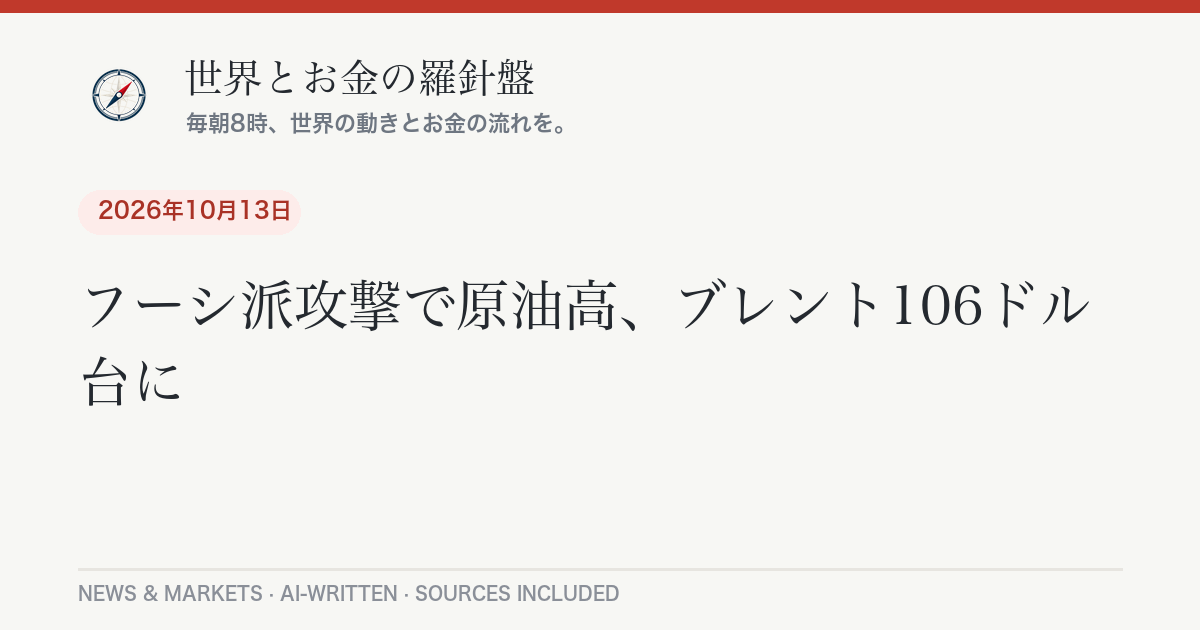
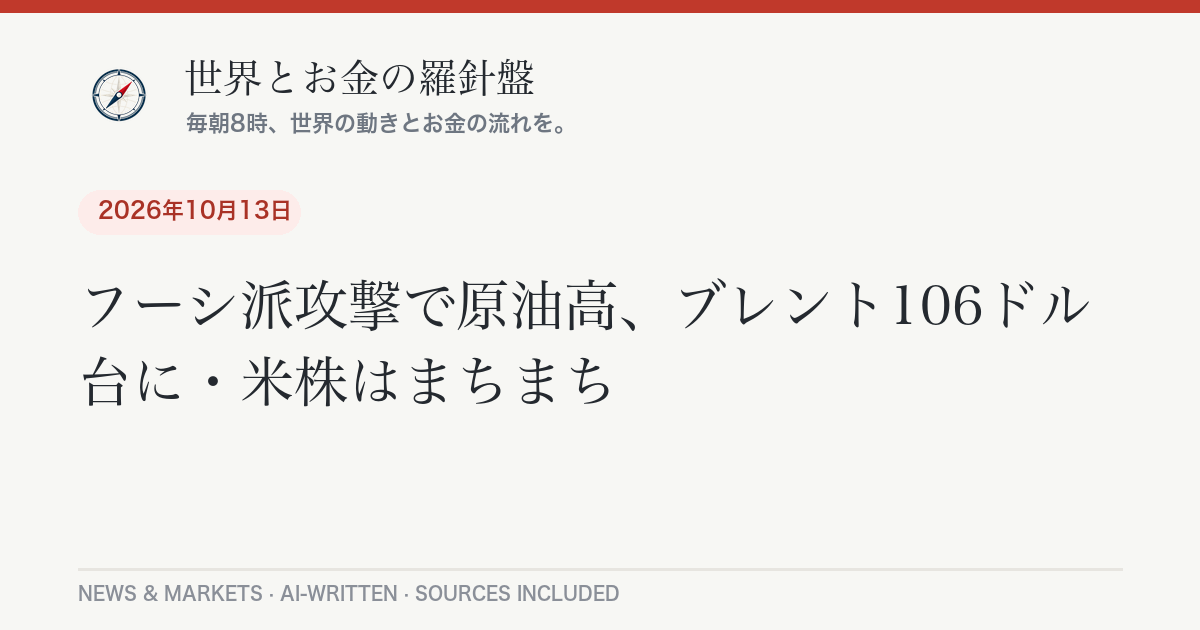
Daily briefing 2026-10-15

Changed region(s): [[0.185, 0.573, 0.5242, 0.6635]]

diff --git a/_posts/2026-10-15-daily-briefing.md b/_posts/2026-10-15-daily-briefing.md
@@ -1,0 +1,104 @@
+---
+layout: post
+lang: ja
+title: "簗農水相が辞任、米CPI3.7%で米株安｜10月15日のニュースとお金"
+date: 2026-10-15 07:41:51 +0900
+categories: [ニュース, 経済]
+headline: "簗農水相が辞任、米CPI3.7%で米株安"
+permalink: /2026/10/15/daily-briefing/
+---
+
+## 今日のポイント
+
+国内では、道路予算をめぐる発言などで批判を受けていた簗和生農林水産相が、14日夜に高市首相へ辞表を提出しました。アメリカでは9月の消費者物価が前年比3.7%と伸びが強まり、「年内にもう一度利上げがあるのでは」との見方からハイテク株を中心に株価が下がりました。中東ではホルムズ海峡で船への攻撃が続き、原油も高止まりしています。
+
+## 今日の羅針盤（Compass Insight）
+
+今日の流れを貫くキーワードは「物価の粘り強さ」です。米国の9月の消費者物価は[前年比3.7%（8月は3.4%）](https://www.bls.gov/news.release/cpi.nr0.htm)と再び加速し、その上昇分の半分以上はガソリン（[前月比9.1%上昇](https://www.bls.gov/news.release/cpi.nr0.htm)）でした。つまり、中東の緊張→原油高→ガソリン高→物価高、という一本の線がつながっています。物価が下がらなければ、米国の中央銀行（FRB）は金利を上げて物価を抑えにかかる可能性があり、それを嫌って[ナスダックは1.9%安](https://abcnews.com/Business/wireStory/major-us-stock-indexes-fared-wednesday-10142026-137270020)となりました。
+
+家計への影響で考えると、米国の金利が上がる局面では日米の金利差が意識され、円安が進みやすくなります。ドル円はすでに[1ドル＝158円台](https://api.frankfurter.app/latest?from=USD&to=JPY)で、原油も[WTIで95ドル台](https://finance.yahoo.com/energy/articles/oil-prices-climb-traders-weigh-012735546.html)です。「円安×原油高」が重なると、ガソリン代や電気・ガス代、輸入食品の値段に上向きの圧力がかかりやすくなります。投資信託などで米国株を持っている方は、金利上昇局面ではハイテク株の値動きが大きくなりやすい点を頭に入れておくと安心です。
+
+国内政治では、農水相の辞任で食料品の消費税減税などをめぐる国会審議の行方にも影響が出る可能性があります。短期的には、10月27〜28日の米FOMC（金融政策を決める会合）で利上げがあるかどうかに注目です。中長期では、中東の緊張がいつ和らぎ、原油とガソリンの価格が落ち着くかが、日米の物価と私たちの生活費を左右する大きな分かれ目になりそうです。
+
+## 今日のニュース
+
+### 日本
+
+- 簗和生農林水産相が14日夜、首相官邸で高市首相に[辞表を提出しました](https://news.web.nhk/newsweb/na/nd-20261014de59049)。地元の道路予算をめぐる発言など問題の指摘が続いていました。簗氏は記者団に[「国会審議に迷惑をこれ以上かけるわけにいかない」](https://www.jiji.com/jc/article?k=2026101401069&g=pol)と述べました。
+- 辞表提出に先立つ14日の衆院予算委員会では、衆院選で支援者を無料バスで送迎したとされる問題について、首相は簗氏に[「さらに説明責任を尽くしてほしい」と求めていました](https://www.jiji.com/jc/article?k=2026101400305&g=pol)。
+- 食料品の消費税減税とあわせて導入をめざす支援金について、首相は対象として[約2000万人を例示し、所得上限は今後検討する](https://www.jiji.com/jc/article?k=2026101400773&g=pol)と答弁しました。
+
+### 世界
+
+- ホルムズ海峡で船舶への攻撃が相次ぎ、英国の海事機関UKMTOによると[コンテナ船とタンカーが正体不明の飛翔体に被弾](https://finance.yahoo.com/energy/articles/oil-prices-climb-traders-weigh-012735546.html)しました。イラン当局者は、規制に違反したとみなす船に対して新たな攻撃戦術を使い始めたとしています。
+- イエメンのフーシ派によるサウジアラビアへの攻撃も続き、サウジ東部ダーランの[サウジアラムコの管理棟が被弾](https://www.rte.ie/news/business/2026/1014/1595326-world-oil-prices/)したと報じられています。
+- ローマ教皇レオ14世は13日に手術を受け、バチカンは[肺がん（腺がん）と診断され右肺の下葉を切除した](https://www.npr.org/2026/10/13/g-s1-147968/pope-leo-has-lung-cancer-vatican-announces)と発表しました。回復は[「予想どおり」順調](https://www.cbsnews.com/news/pope-leo-diagnosed-lung-cancer-surgery/)とされています。
+
+### アメリカ
+
+- 9月の消費者物価指数（CPI）は[前年比3.7%、前月比0.6%の上昇](https://www.bls.gov/news.release/cpi.nr0.htm)。食品とエネルギーを除くコア指数も前年比2.6%と予想を上回り、中間選挙前最後の物価統計として[注目を集めました](https://www.cnn.com/2026/10/14/economy/us-cpi-inflation-september)。
+- 連邦地裁は、ホワイトハウスがCNN、MS NOW、Politicoの記者の出入りを禁じた措置について、[訴訟が続く間は差し止める命令](https://www.npr.org/2026/10/14/nx-s1-6001398/white-house-media-ban)を出しました。
+- 駐ギリシャ大使のキンバリー・ギルフォイル氏が、ホワイトハウスの求めを受けて[辞任しました](https://www.npr.org/2026/10/14/g-s1-148027/trump-ambassador-greece-resignation)。
+
+### ヨーロッパ
+
+- EU理事会は、汚職対策の改革を受けてハンガリーへの資金凍結措置を解除し、[42億ユーロの資金拠出を再開](https://www.riotimesonline.com/europe-intelligence-brief-wednesday-october-14-2026/)することになりました。
+- 半導体製造装置大手のオランダASMLは7〜9月期に[売上高117億ユーロ、純利益50億ユーロ](https://www.sec.gov/Archives/edgar/data/0000937966/000162828026065813/pressreleasefinancialresul.htm)の好決算を発表しましたが、[株価は下落](https://www.investing.com/news/transcripts/earnings-call-transcript-asml-tops-q3-2026-estimates-but-shares-fall-93CH-4948118)しました。
+
+## 経済とお金の動き
+
+### 世界の経済と原油・相場
+
+| 指標 | 水準（10月14日終値など） | 前日比 |
+|---|---|---|
+| NYダウ | [5万1621.48ドル](https://abcnews.com/Business/wireStory/major-us-stock-indexes-fared-wednesday-10142026-137270020) | <span class="chg-down">-48.62ドル（-0.1%）</span> |
+| S&P500 | [7718.94](https://abcnews.com/Business/wireStory/major-us-stock-indexes-fared-wednesday-10142026-137270020) | <span class="chg-down">-86.51（-1.1%）</span> |
+| ナスダック総合 | [2万6692.87](https://abcnews.com/Business/wireStory/major-us-stock-indexes-fared-wednesday-10142026-137270020) | <span class="chg-down">-511.51（-1.9%）</span> |
+| 日経平均株価 | [6万7744円29銭](https://www.zaikei.co.jp/article/20261014/873417.html) | <span class="chg-down">-33円23銭（5日続落）</span> |
+| 北海ブレント原油 | [106.06ドル/バレル](https://finance.yahoo.com/energy/articles/oil-prices-climb-traders-weigh-012735546.html) | <span class="chg-up">+0.37ドル（+0.35%）</span> |
+| WTI原油 | [95.09ドル/バレル](https://finance.yahoo.com/energy/articles/oil-prices-climb-traders-weigh-012735546.html) | <span class="chg-up">+0.95ドル（+1.01%）</span> |
+| ドル円 | [158.45円](https://api.frankfurter.app/latest?from=USD&to=JPY)（ECB参照レート、10月14日基準） | — |
+
+原油は、ホルムズ海峡での船舶攻撃とサウジへの攻撃が重なり、WTIは[約3週間ぶりの高値](https://finance.yahoo.com/energy/articles/oil-prices-climb-traders-weigh-012735546.html)をつけました。一方で、ロシア産ディーゼルの輸出増への期待が値上がりを抑える要因になっています。
+
+### アメリカの経済
+
+CPIの上振れを受けて、10月27〜28日のFOMCでの利上げ観測が強まりました。CME FedWatchベースの利上げ確率は、報道によって[約35〜54%](https://www.benzinga.com/markets/economic-data/26/10/62358014/hot-inflation-fed-october-hike-odds-debasement-risk-september-cpi)と幅がありますが、前日の2割強から大きく上がった点は共通しています。株式市場では金利上昇に弱いハイテク株が売られ、[ナスダックと小型株のラッセル2000がそろって1.9%安](https://abcnews.com/Business/wireStory/major-us-stock-indexes-fared-wednesday-10142026-137270020)。一方、ダウは0.1%安にとどまりました。実質賃金の目減りが続くなかでの物価高で、家計の負担感が強まっている点にも注意が必要です。
+
+### 日本の経済
+
+日経平均は自律反発を狙った買いで高く始まったものの、午後に入ってASML決算後の半導体株への売りなどで値を消し、[33円安の6万7744円で5日続落](https://www.zaikei.co.jp/article/20261014/873417.html)しました。業種別では石油・石炭製品や非鉄金属が上がり、銀行や証券が下がりました。[東京エレクトロン1銘柄で日経平均を約159円押し下げ](https://www.zaikei.co.jp/article/20261014/873422.html)ており、指数が半導体株に左右される構図が続いています。今日の東京市場は、前夜の米ハイテク株安と円相場の動きが焦点です。
+
+## 今日の注目銘柄・セクター
+
+- **半導体製造装置（東京エレクトロン、ASMLなど）**：ASMLは過去最高水準の売上を発表し、顧客から[2029〜2030年分の注文に関心が寄せられている](https://qz.com/asml-quarterly-earnings-profit-customers-orders-2030-101426)と説明しました。それでも株価は下がり、「好材料はすでに株価に織り込み済み」と受け止められました。東京市場でも東京エレクトロンが日経平均の大きな押し下げ要因になりました。
+- **石油・石炭製品セクター**：原油高を背景に、東京市場で[業種別上昇率の上位](https://www.zaikei.co.jp/article/20261014/873417.html)に入りました。
+- **米AI・半導体株（エヌビディア、インテルなど）**：CPI上振れで金利上昇への警戒が強まり、[エヌビディアは約3%、インテルは約4.6%下落](https://finance.yahoo.com/markets/stocks/articles/stock-market-today-oct-14-135249729.html)しました。
+- **バンク・オブ・アメリカ**：マネーロンダリング対策の不備で、米当局から[12億ドルを超える制裁金](https://finance.yahoo.com/markets/stocks/articles/stock-market-today-oct-14-135249729.html)を科され、株価が下落しました。
+
+*※特定銘柄の売買を推奨するものではありません。投資判断はご自身の責任で。*
+
+## まとめ：注目の3つ
+
+1. **簗農水相の辞任と国会審議**：首相の任命責任をめぐる追及や、消費税減税の議論にどう影響するか。
+2. **米国の利上げ観測**：CPI3.7%を受け、10月27〜28日のFOMCで利上げがあるか。円安・株安につながるかに注目。
+3. **ホルムズ海峡と原油**：船舶攻撃が続けば、ガソリン代や電気・ガス代への上昇圧力が続く可能性。
+
+---
+<div class="post-sources" markdown="1">
+
+**出典：**
+- [NHK・簗農相 辞表提出 道路予算発言など問題指摘の中](https://news.web.nhk/newsweb/na/nd-20261014de59049)
+- [時事ドットコム・簗農水相が辞表](https://www.jiji.com/jc/article?k=2026101401069&g=pol)
+- [時事ドットコム・支援金対象、2000万人を例示](https://www.jiji.com/jc/article?k=2026101400773&g=pol)
+- [BLS・Consumer Price Index Summary（2026年9月）](https://www.bls.gov/news.release/cpi.nr0.htm)
+- [ABC News・How major US stock indexes fared Wednesday 10/14/2026](https://abcnews.com/Business/wireStory/major-us-stock-indexes-fared-wednesday-10142026-137270020)
+- [Yahoo Finance（Reuters）・Oil prices gain on attacks in Saudi Arabia](https://finance.yahoo.com/energy/articles/oil-prices-climb-traders-weigh-012735546.html)
+- [財経新聞・日経平均は5日続落](https://www.zaikei.co.jp/article/20261014/873417.html)
+- [NPR・Pope Leo has lung cancer](https://www.npr.org/2026/10/13/g-s1-147968/pope-leo-has-lung-cancer-vatican-announces)
+- [ASML・2026年第3四半期決算（SEC提出資料）](https://www.sec.gov/Archives/edgar/data/0000937966/000162828026065813/pressreleasefinancialresul.htm)
+- 市場データ: [frankfurter API](https://api.frankfurter.app/) ／ Yahoo Finance ほか
+
+*本記事は公開情報をもとに作成しています。*
+
+</div>

diff --git a/_posts/2026-10-15-daily-briefing-en.md b/_posts/2026-10-15-daily-briefing-en.md
@@ -1,0 +1,52 @@
+---
+layout: post
+lang: en
+title: "Hot September CPI of 3.7% sinks tech stocks — October 15, 2026"
+date: 2026-10-15 07:41:51 +0900
+headline: "Hot September CPI of 3.7% sinks tech stocks"
+permalink: /2026/10/15/daily-briefing/
+---
+
+## Top U.S. Stories
+
+- **Inflation re-accelerates.** Consumer prices rose [0.6% in September and 3.7% from a year earlier](https://www.bls.gov/news.release/cpi.nr0.htm), up from 3.4% in August. Gasoline jumped 9.1% on the month and drove more than half of the increase. Core CPI rose 0.3% (2.6% annually), slightly above forecasts.
+  *Why it matters:* This was the [last CPI snapshot before the midterms](https://www.cnn.com/2026/10/14/economy/us-cpi-inflation-september), and it revives the case for a Fed rate hike at the October 27–28 meeting.
+- **Stocks slide, led by tech.** The S&P 500 fell [1.1% to 7,718.94](https://abcnews.com/Business/wireStory/major-us-stock-indexes-fared-wednesday-10142026-137270020), the Nasdaq lost 1.9%, and the Dow slipped just 0.1%.
+  *Why it matters:* Rate-sensitive AI and chip names took the brunt; [Nvidia fell about 3% and Intel about 4.6%](https://finance.yahoo.com/markets/stocks/articles/stock-market-today-oct-14-135249729.html).
+- **Court blocks White House press ban.** A federal judge [kept CNN, MS NOW and Politico reporters' White House access in place](https://www.npr.org/2026/10/14/nx-s1-6001398/white-house-media-ban) while their lawsuit proceeds.
+- **Ambassador to Greece resigns.** Kimberly Guilfoyle [stepped down](https://www.npr.org/2026/10/14/g-s1-148027/trump-ambassador-greece-resignation) after the White House asked her to leave.
+- **Bank of America fined.** Federal regulators fined the bank [more than $1.2 billion over anti-money-laundering failures](https://finance.yahoo.com/markets/stocks/articles/stock-market-today-oct-14-135249729.html), weighing on its shares.
+  *Why it matters:* It landed in the middle of bank earnings season, as JPMorgan, Goldman, Citi and Wells Fargo report their quarters.
+
+## Compass Insight
+
+One line connects the day's headlines: Gulf tensions push oil up, oil pushes gasoline up, and gasoline pushes U.S. inflation back toward 4%. That chain is why a "hot" CPI print hit growth stocks hardest while the Dow barely moved. In the short term, watch whether futures markets keep pricing an October hike; estimates of the odds ranged widely after the report, but all rose sharply from about one in five the day before. Over the longer run, the key variable is not the Fed but the Strait of Hormuz: if shipping attacks ease and oil retreats, inflation pressure could fade without further tightening. Until then, higher yields and a firm dollar are likely to keep volatility elevated in tech-heavy portfolios.
+
+## Markets
+
+- **Dow:** [51,621.48](https://abcnews.com/Business/wireStory/major-us-stock-indexes-fared-wednesday-10142026-137270020) (−48.62, −0.1%) / **S&P 500:** 7,718.94 (−86.51, −1.1%) / **Nasdaq:** 26,692.87 (−511.51, −1.9%)
+- **Oil:** Brent settled at [$106.06](https://finance.yahoo.com/energy/articles/oil-prices-climb-traders-weigh-012735546.html) (+0.35%); WTI at $95.09 (+1.01%), a three-week high, after ships were struck in the Strait of Hormuz and a Saudi Aramco building was hit.
+- **Japan:** The Nikkei 225 closed at [67,744.29](https://www.zaikei.co.jp/article/20261014/873417.html), down 33.23 for a fifth straight loss. USD/JPY stood at [158.45](https://api.frankfurter.app/latest?from=USD&to=JPY) (ECB reference rate, Oct. 14).
+
+## Stocks in Focus
+
+- **ASML:** Reported [€11.7 billion in Q3 sales and €5.0 billion in net income](https://www.sec.gov/Archives/edgar/data/0000937966/000162828026065813/pressreleasefinancialresul.htm), and said some customers are asking about orders for 2029–2030, yet [shares fell](https://www.investing.com/news/transcripts/earnings-call-transcript-asml-tops-q3-2026-estimates-but-shares-fall-93CH-4948118) as investors saw the strength as already priced in.
+- **Energy:** Oil-linked names held up as crude rose, in contrast to the tech sell-off.
+
+---
+<div class="post-sources" markdown="1">
+
+**Sources:**
+- [BLS — Consumer Price Index Summary, September 2026](https://www.bls.gov/news.release/cpi.nr0.htm)
+- [CNN — Inflation rose to 3.7% last month](https://www.cnn.com/2026/10/14/economy/us-cpi-inflation-september)
+- [ABC News — How major US stock indexes fared Wednesday 10/14/2026](https://abcnews.com/Business/wireStory/major-us-stock-indexes-fared-wednesday-10142026-137270020)
+- [Yahoo Finance — Stock Market Today, Oct. 14, 2026](https://finance.yahoo.com/markets/stocks/articles/stock-market-today-oct-14-135249729.html)
+- [Yahoo Finance (Reuters) — Oil prices gain on attacks in Saudi Arabia](https://finance.yahoo.com/energy/articles/oil-prices-climb-traders-weigh-012735546.html)
+- [NPR — CNN, MS NOW and Politico prevail against White House](https://www.npr.org/2026/10/14/nx-s1-6001398/white-house-media-ban)
+- [NPR — Guilfoyle resigns as ambassador to Greece](https://www.npr.org/2026/10/14/g-s1-148027/trump-ambassador-greece-resignation)
+- [ASML — Q3 2026 results (SEC filing)](https://www.sec.gov/Archives/edgar/data/0000937966/000162828026065813/pressreleasefinancialresul.htm)
+- Market data: [frankfurter API](https://api.frankfurter.app/) / Yahoo Finance
+
+</div>
+
+*Auto-generated and AI-written. Not investment advice.*
